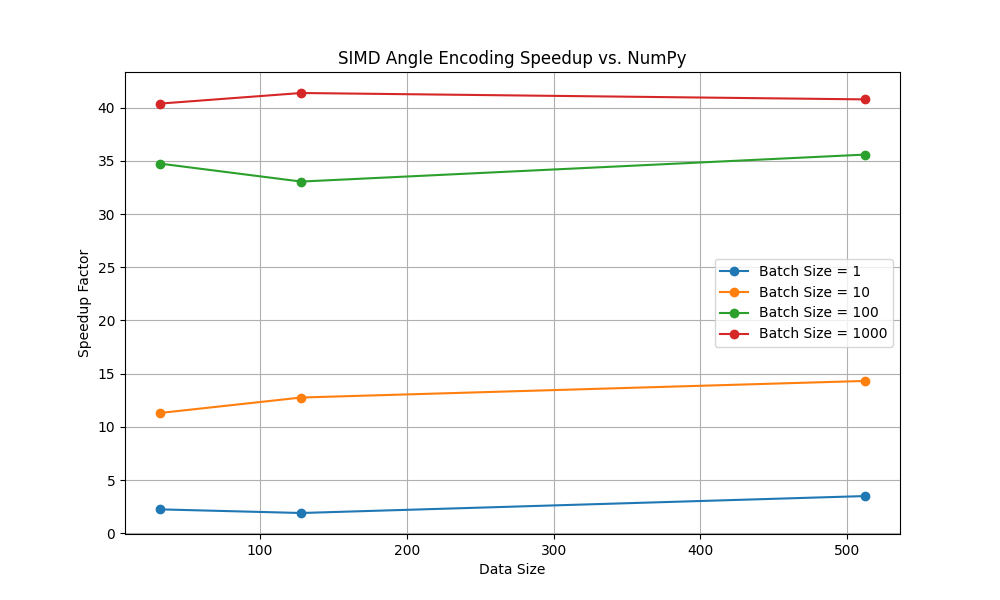
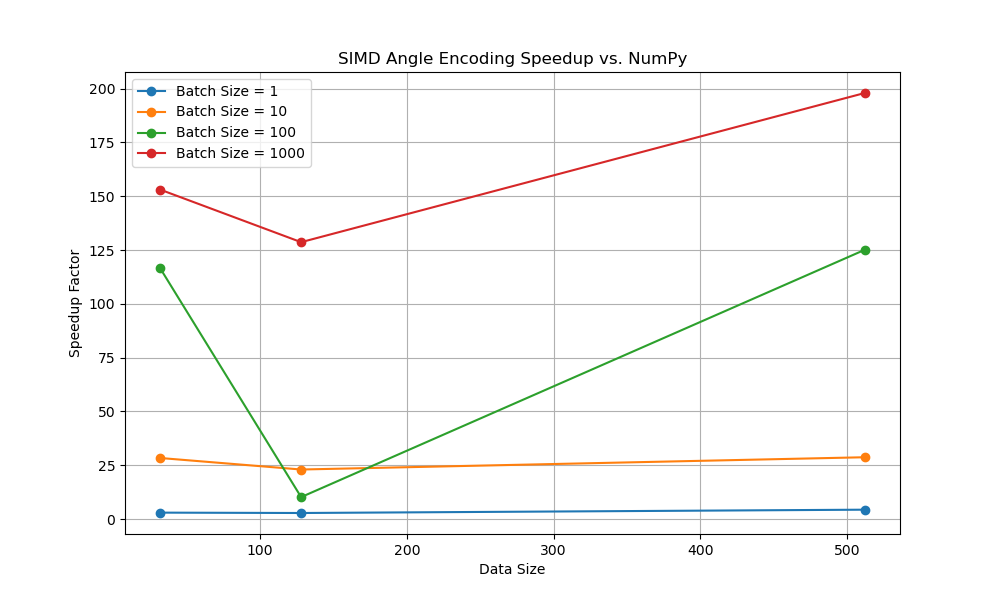
run hqcnn examples (vibe-kanban 83173772)
build rust library, install pennylane and qiskit plugin, execute , fix any error, analyse the result

diff --git a/examples/hqcnn_qiskit_example.py b/examples/hqcnn_qiskit_example.py
@@ -258,7 +258,7 @@ def predict_single(data_point: np.ndarray, params: np.ndarray,
 
     Args:
         data_point: Input features
-        params: Circuit parameters
+        params: Circuit parameters (can be flat or shaped)
         n_qubits: Number of qubits
         n_layers: Number of layers
         use_simd: Whether to use SIMD encoding
@@ -266,10 +266,11 @@ def predict_single(data_point: np.ndarray, params: np.ndarray,
     Returns:
         Prediction (±1)
     """
+    params_flat = params.flatten()
     if use_simd:
-        circuit = build_hqcnn_with_encoding(data_point, params, n_qubits, n_layers)
+        circuit = build_hqcnn_with_encoding(data_point, params_flat, n_qubits, n_layers)
     else:
-        circuit = build_hqcnn_with_numpy_encoding(data_point, params, n_qubits, n_layers)
+        circuit = build_hqcnn_with_numpy_encoding(data_point, params_flat, n_qubits, n_layers)
 
     expectation = compute_expectation(circuit)
     return 1 if expectation > 0 else -1
@@ -334,10 +335,11 @@ def compute_loss(X: np.ndarray, y: np.ndarray,
     Returns:
         Loss value
     """
+    params_flat = params.flatten()
     predictions = np.array([
-        compute_expectation(build_hqcnn_with_encoding(x, params, n_qubits, n_layers))
+        compute_expectation(build_hqcnn_with_encoding(x, params_flat, n_qubits, n_layers))
         if use_simd else
-        compute_expectation(build_hqcnn_with_numpy_encoding(x, params, n_qubits, n_layers))
+        compute_expectation(build_hqcnn_with_numpy_encoding(x, params_flat, n_qubits, n_layers))
         for x in X
     ])
     loss = np.mean((predictions - y) ** 2)
@@ -478,8 +480,7 @@ def run_end_to_end_training(
     start_time = time.time()
     result = optimizer.minimize(
         fun=lambda p: objective_function(p, X_batch, y_batch, n_qubits, n_layers, use_simd=True),
-        x0=params_flat,
-        callback=callback
+        x0=params_flat
     )
     total_time = time.time() - start_time
 
@@ -487,7 +488,8 @@ def run_end_to_end_training(
     trained_params = result.x.reshape(params_shape)
 
     print(f"\n    Total training time: {total_time:.3f}s")
-    print(f"    Final loss: {losses[-1]:.4f}")
+    final_loss = objective_function(result.x, X_batch, y_batch, n_qubits, n_layers, use_simd=True)
+    print(f"    Final loss: {final_loss:.4f}")
 
     # 5. Final evaluation
     print("\n[5] Final Evaluation...")
